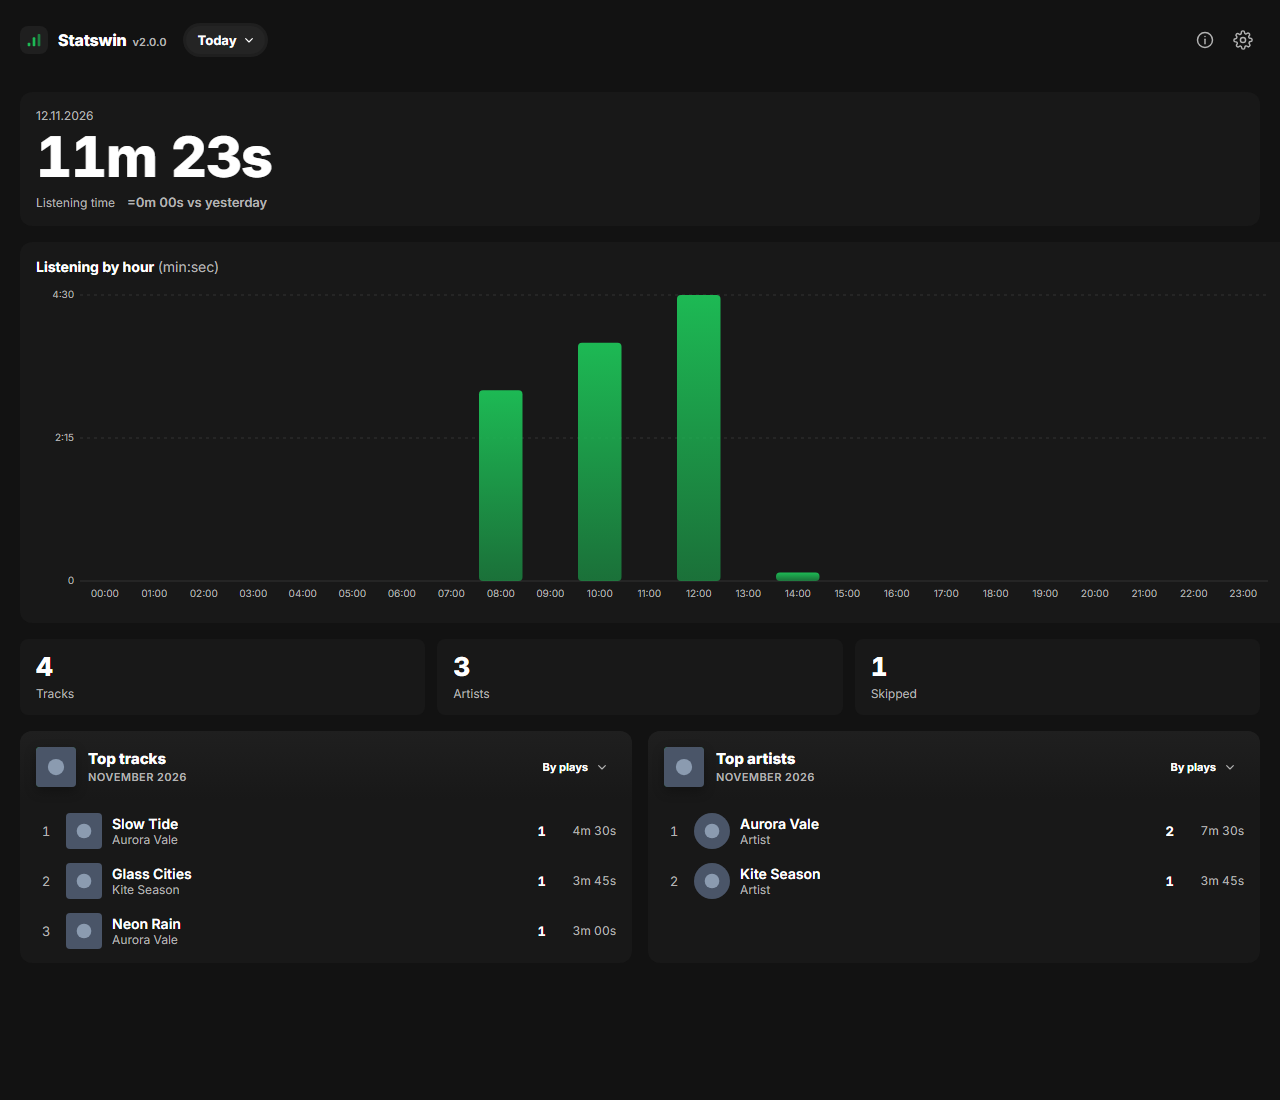
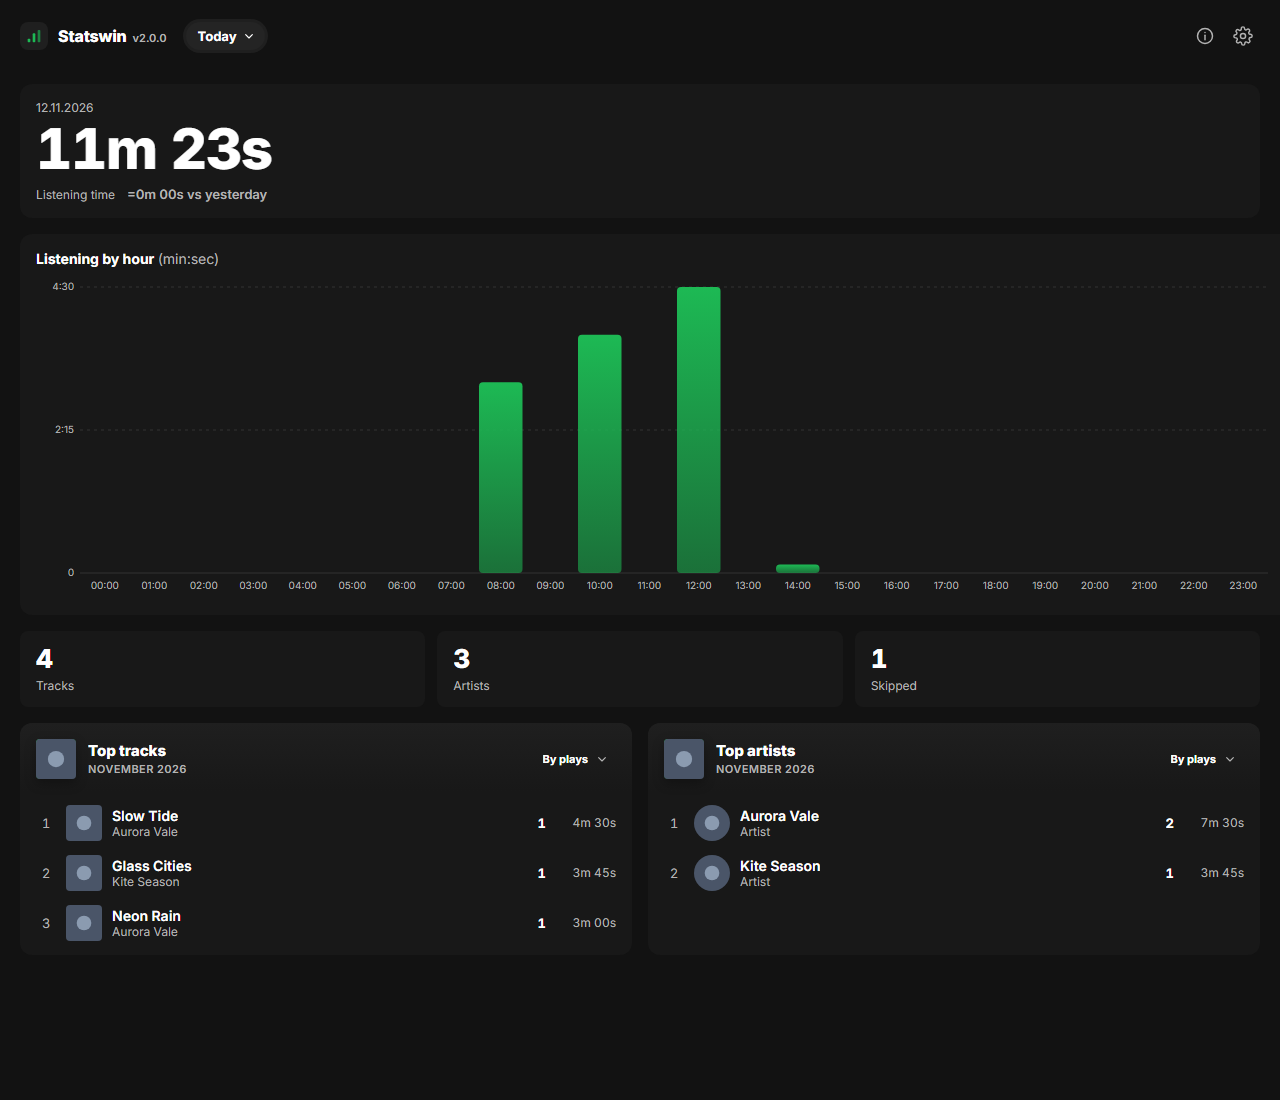
fix(ui): pin the header to the viewport and add an Auto language option
- position: fixed instead of sticky: Spotify nests the app under scroll and transform wrappers where sticky silently stops; the measured header height is published as --statswin-header-height so content is never clipped (the bar wraps on narrow layouts)
- scroll updates are captured on window/document, so they fire regardless of which nested container actually scrolls (sticky state previously stuck at false)
- the stuck separator is an inset shadow that survives the opaque ::before layer
- language setting gained an Auto option (default): Spicetify.Locale first, then navigator.languages and <html lang>, then English; a concrete choice still persists and wins

diff --git a/src/utils/i18n.tsx b/src/utils/i18n.tsx
@@ -1,16 +1,24 @@
-import React, { createContext, useContext, useMemo, useState } from "react";
+import React, { createContext, useContext, useEffect, useMemo, useState } from "react";
 import en from "../locales/en.json";
 import ru from "../locales/ru.json";
 import { STORAGE_KEYS } from "../config";
 
 export type Locale = "en" | "ru";
 
+/** Stored preference: a concrete language or "auto" (follow the client). */
+export type LanguagePref = Locale | "auto";
+
 type Dictionary = Record<string, string>;
 type TemplateVars = Record<string, string | number>;
 
 type I18nContextValue = {
+  /** Resolved language actually used for translations. */
   lang: Locale;
-  setLang: (lang: Locale) => void;
+  /** Stored preference ("auto" follows the client language). */
+  langPref: LanguagePref;
+  /** Language Statswin detects from the environment right now. */
+  detectedLang: Locale;
+  setLang: (lang: LanguagePref) => void;
   t: (key: string, vars?: TemplateVars) => string;
 };
 
@@ -68,15 +76,23 @@ function detectLanguage(): Locale {
  * A missing preference means "follow the client language"; the choice is
  * persisted as soon as the user picks one in the settings dialog.
  */
-function getStoredLanguage(): Locale {
-  if (typeof window === "undefined") return "en";
+function getLanguagePref(): LanguagePref {
+  if (typeof window === "undefined") return "auto";
   try {
     const raw = window.localStorage.getItem(STORAGE_KEYS.language);
-    if (raw === "ru" || raw === "en") return raw;
+    if (raw === "ru" || raw === "en" || raw === "auto") return raw;
   } catch {
     // localStorage can be unavailable (privacy mode); detection still works.
   }
-  return detectLanguage();
+  return "auto";
+}
+
+/**
+ * Resolves the stored preference into the language that is actually used.
+ */
+function getStoredLanguage(): Locale {
+  const pref = getLanguagePref();
+  return pref === "auto" ? detectLanguage() : pref;
 }
 
 /**
@@ -105,17 +121,50 @@ function resolveKey(lang: Locale, key: string): string {
  * Provides the active language and a translation function to the React tree.
  */
 export function I18nProvider({ children }: { children: React.ReactNode }) {
-  const [lang, setLangState] = useState<Locale>(getStoredLanguage);
+  const [langPref, setLangPref] = useState<LanguagePref>(getLanguagePref);
+  // Detection reads the client locale, which can arrive after the first render
+  // (Spicetify injects it during startup); re-resolve when it does.
+  const [detectedLang, setDetectedLang] = useState<Locale>(detectLanguage);
+  const [detectTick, setDetectTick] = useState(0);
 
-  const setLang = (next: Locale) => {
-    setLangState(next);
+  const lang: Locale = langPref === "auto" ? detectedLang : langPref;
+
+  useEffect(() => {
+    if (langPref !== "auto") return;
+    setDetectedLang(detectLanguage());
+  }, [langPref, detectTick]);
+
+  // Poll briefly for the client locale, then stop; the webview language is
+  // available immediately, so this only refines an early "en" fallback.
+  useEffect(() => {
+    if (langPref !== "auto" || detectedLang !== "en") return;
+    let attempts = 0;
+    const timer = window.setInterval(() => {
+      attempts += 1;
+      const next = detectLanguage();
+      if (next !== "en" || attempts >= 20) {
+        window.clearInterval(timer);
+        if (next !== "en") setDetectedLang(next);
+      } else {
+        setDetectTick((value) => value + 1);
+      }
+    }, 250);
+    return () => window.clearInterval(timer);
+  }, [langPref, detectedLang]);
+
+  const setLang = (next: LanguagePref) => {
+    setLangPref(next);
     try {
       window.localStorage.setItem(STORAGE_KEYS.language, next);
     } catch {
       // Persisting the language preference is best-effort.
     }
+    const resolved = next === "auto" ? detectLanguage() : next;
+    if (next === "auto") setDetectedLang(resolved);
     try {
-      window.dispatchEvent(new CustomEvent("statswin:language-changed", { detail: { lang: next } }));
+      window.dispatchEvent(
+        new CustomEvent("statswin:language-changed", { detail: { lang: resolved } })
+      );
     } catch {
       // CustomEvent is unavailable in exotic environments; ignore.
     }
@@ -124,10 +173,12 @@ export function I18nProvider({ children }: { children: React.ReactNode }) {
   const value = useMemo<I18nContextValue>(
     () => ({
       lang,
+      langPref,
+      detectedLang,
       setLang,
       t: (key: string, vars?: TemplateVars) => interpolate(resolveKey(lang, key), vars),
     }),
-    [lang]
+    [lang, langPref, detectedLang]
   );
 
   return <I18nContext.Provider value={value}>{children}</I18nContext.Provider>;

diff --git a/src/app.tsx b/src/app.tsx
@@ -45,24 +45,6 @@ export default function App() {
   );
 }
 
-/**
- * Finds the element that actually scrolls for `node`.
- *
- * Spotify's main view is not the document scroller: content lives in an inner
- * container, so a plain `window.scroll` listener would never fire.
- */
-function findScrollParent(node: HTMLElement): HTMLElement | null {
-  let current: HTMLElement | null = node.parentElement;
-  while (current) {
-    const style = window.getComputedStyle(current);
-    const overflowY = style.overflowY;
-    const scrollable = overflowY === "auto" || overflowY === "scroll" || overflowY === "overlay";
-    if (scrollable && current.scrollHeight > current.clientHeight) return current;
-    current = current.parentElement;
-  }
-  return document.scrollingElement instanceof HTMLElement ? document.scrollingElement : null;
-}
-
 function AppView() {
   const { t, lang } = useI18n();
   const [period, setPeriod] = useState<PeriodType>(PeriodType.Today);
@@ -118,30 +100,52 @@ function AppView() {
     [topRange.start, topRange.end, refreshTick]
   );
 
-  // The sticky header gains its separator shadow only once content scrolls
-  // underneath it, which keeps the resting page flat.
+  // The header is `position: fixed`, so:
+  //  - its real height is published as `--statswin-header-height` (the bar
+  //    wraps on narrow viewports, a constant padding would clip content);
+  //  - the separator shadow appears only once content scrolls underneath it.
   useEffect(() => {
-    const container = headerRef.current?.parentElement;
-    if (!container) return;
-    const scroller = findScrollParent(container);
-    // `document.scrollingElement` (the <html> element) is the page scroller;
-    // its own bounding rect moves with the scroll, so the boundary must be 0.
-    const isPageScroller = !scroller || scroller === document.scrollingElement;
-    const update = () => {
-      const headerTop = headerRef.current?.getBoundingClientRect().top ?? 0;
-      const boundary = isPageScroller ? 0 : scroller.getBoundingClientRect().top;
-      const scrolled = isPageScroller ? window.scrollY : scroller.scrollTop;
-      setHeaderStuck(headerTop <= boundary + 1 && scrolled > 0);
+    const header = headerRef.current;
+    const container = header?.parentElement;
+    if (!header || !container) return;
+
+    const syncHeight = () => {
+      container.style.setProperty("--statswin-header-height", `${Math.ceil(header.offsetHeight)}px`);
     };
-    // Window scroll events are not captured by listeners on the document
-    // element in every webview, so the page scroller listens on `window`.
-    const target: HTMLElement | Window = isPageScroller ? window : scroller;
-    target.addEventListener("scroll", update, { passive: true });
-    window.addEventListener("resize", update);
+    const update = () => {
+      // The header is fixed to its containing block (the app container), so its
+      // own rect never moves. "Stuck" means the container's top edge left the
+      // visible area above it, which works for both the page and inner scrollers.
+      const containerTop = container.getBoundingClientRect().top;
+      setHeaderStuck(containerTop < -1);
+    };
+    const onScroll = () => update();
+
+    // Spotify nests the app under several scroll containers (the page, a
+    // `main-view-container`) and may swap them after mount. Listening in the
+    // capture phase on the page catches scroll events from any descendant,
+    // which is independent of the container that actually scrolls.
+    const targets: Array<EventTarget> = [window, document];
+    for (const target of targets) {
+      target.addEventListener("scroll", onScroll, { capture: true, passive: true });
+    }
+
+    let observer: ResizeObserver | null = null;
+    if (typeof ResizeObserver !== "undefined") {
+      observer = new ResizeObserver(() => {
+        syncHeight();
+        update();
+      });
+      observer.observe(header);
+    }
+    window.addEventListener("resize", syncHeight);
+    syncHeight();
     update();
+
     return () => {
-      target.removeEventListener("scroll", update);
-      window.removeEventListener("resize", update);
+      for (const target of targets) target.removeEventListener("scroll", onScroll, { capture: true });
+      window.removeEventListener("resize", syncHeight);
+      observer?.disconnect();
     };
   }, []);
 

diff --git a/src/components/SettingsModal.tsx b/src/components/SettingsModal.tsx
@@ -34,7 +34,7 @@ type Tab = "data" | "general";
  * duplicate handling + summary) and a destructive zone with confirmation.
  */
 export function SettingsModal({ open, onClose }: SettingsModalProps) {
-  const { t, lang, setLang } = useI18n();
+  const { t, langPref, detectedLang, setLang } = useI18n();
   const [tab, setTab] = useState<Tab>("general");
   const [confirmReset, setConfirmReset] = useState(false);
   const [pending, setPending] = useState<PendingImport | null>(null);
@@ -336,13 +336,32 @@ export function SettingsModal({ open, onClose }: SettingsModalProps) {
                 <div className={styles.paneSectionTitle}>{t("settings.language.title")}</div>
                 <p className={styles.paneSectionText}>{t("settings.language.hint")}</p>
                 <div className={styles.segmentedControl} role="radiogroup" aria-label={t("settings.language.title")}>
+                  <label className={langPref === "auto" ? styles.segmentActive : styles.segment}>
+                    <input
+                      type="radio"
+                      name="statswin-lang"
+                      checked={langPref === "auto"}
+                      onChange={() => setLang("auto")}
+                    />
+                    {t("settings.language.auto")}
+                  </label>
                   {(["en", "ru"] as Locale[]).map((code) => (
-                    <label key={code} className={lang === code ? styles.segmentActive : styles.segment}>
-                      <input type="radio" name="statswin-lang" checked={lang === code} onChange={() => setLang(code)} />
+                    <label key={code} className={langPref === code ? styles.segmentActive : styles.segment}>
+                      <input
+                        type="radio"
+                        name="statswin-lang"
+                        checked={langPref === code}
+                        onChange={() => setLang(code)}
+                      />
                       {t(`settings.language.${code}`)}
                     </label>
                   ))}
                 </div>
+                {langPref === "auto" && (
+                  <p className={styles.paneSectionText}>
+                    {t("settings.language.detected", { lang: t(`settings.language.${detectedLang}`) })}
+                  </p>
+                )}
               </section>
             )}
           </div>

diff --git a/src/css/app.module.scss b/src/css/app.module.scss
@@ -34,7 +34,9 @@
   display: flex;
   flex-direction: column;
   gap: var(--sw-gap);
-  padding: 16px 20px 32px;
+  /* Top padding reserves the fixed header: the measured height (set from
+   * app.tsx) because the bar wraps into two rows on narrow viewports. */
+  padding: calc(var(--statswin-header-height, 76px) + 12px) 20px 32px;
   color: var(--sw-text);
   font-family: var(--sw-font);
   /* Sticky header band: same surface as the page, no clipping. */
@@ -120,14 +122,18 @@
  * strip over the content. The background matches the page and blends with the
  * first card thanks to a soft gradient. */
 .topBarSticky {
-  position: sticky;
+  /* Anchored to the viewport: `sticky` only holds inside the same scroll
+   * container, and Spotify nests the app under transformed/scroll wrappers. */
+  position: fixed;
   top: 0;
+  left: 0;
+  right: 0;
   z-index: 40;
   isolation: isolate;
-  margin: -16px -20px 0;
-  padding: 16px 20px 12px;
-  /* Opaque band: Spotify paints a track-colour gradient behind its own scroll
-   * container, which showed through the old translucent header. */
+  margin: 0;
+  padding: 12px 20px;
+  /* Opaque band: Spotify paints a track-colour gradient behind the app, which
+   * showed through the old translucent header. */
   background: var(--sw-bg);
   box-shadow: inset 0 0 0 0 transparent;
   transition: box-shadow 160ms var(--sw-ease);
